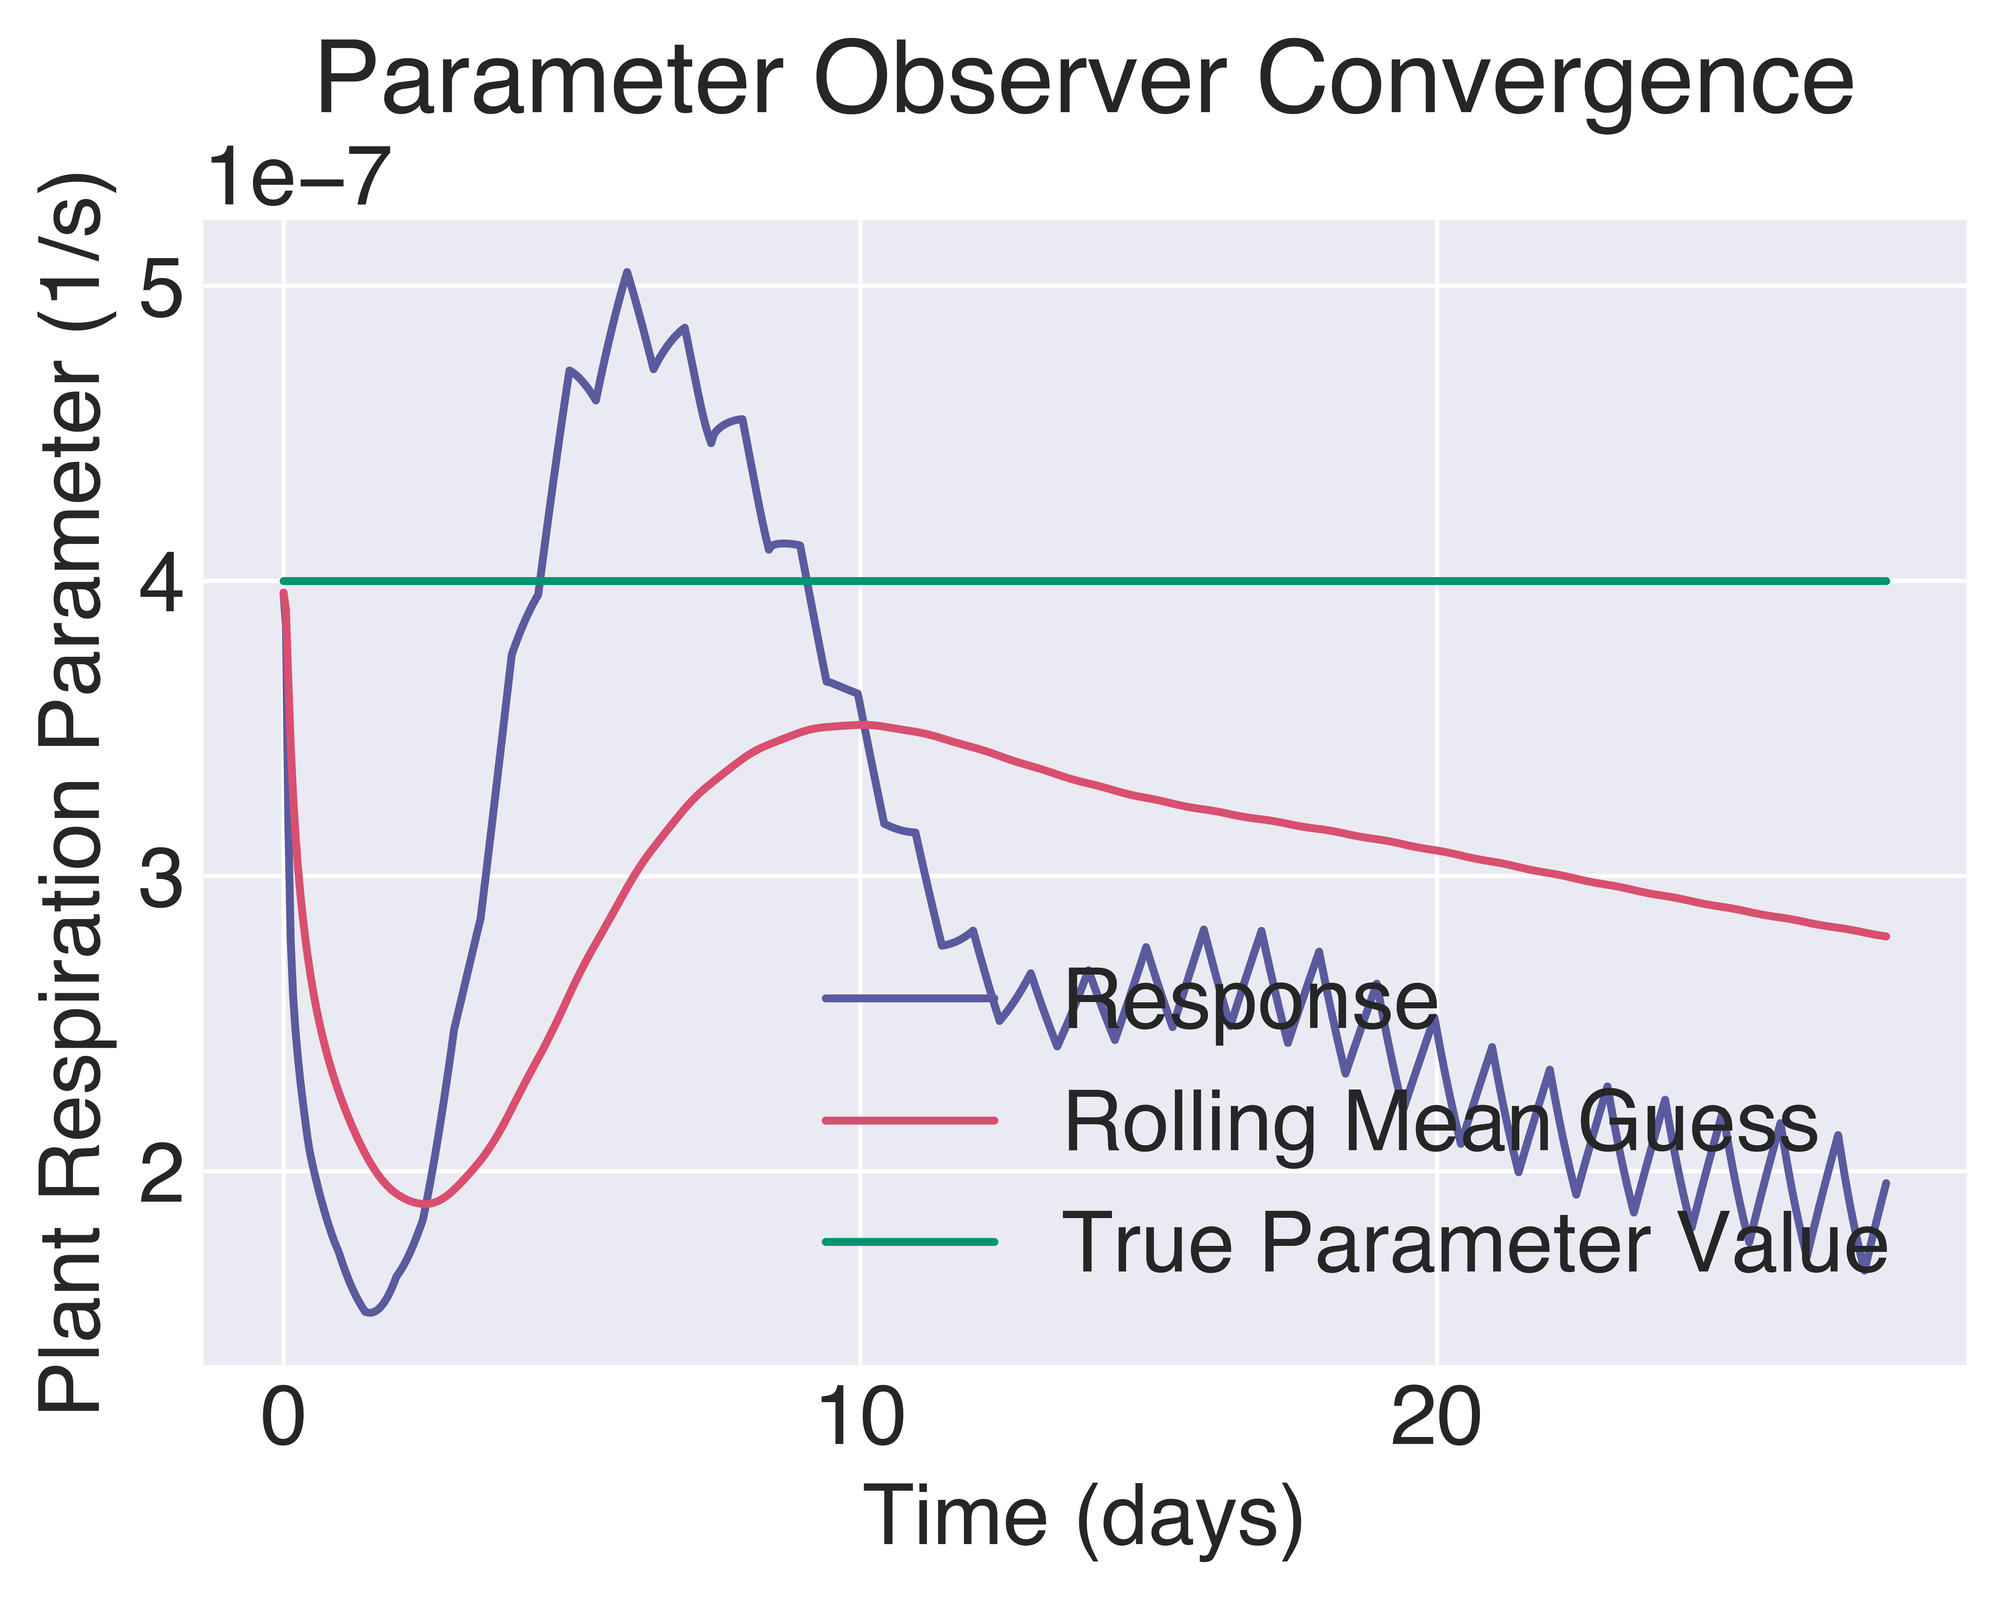
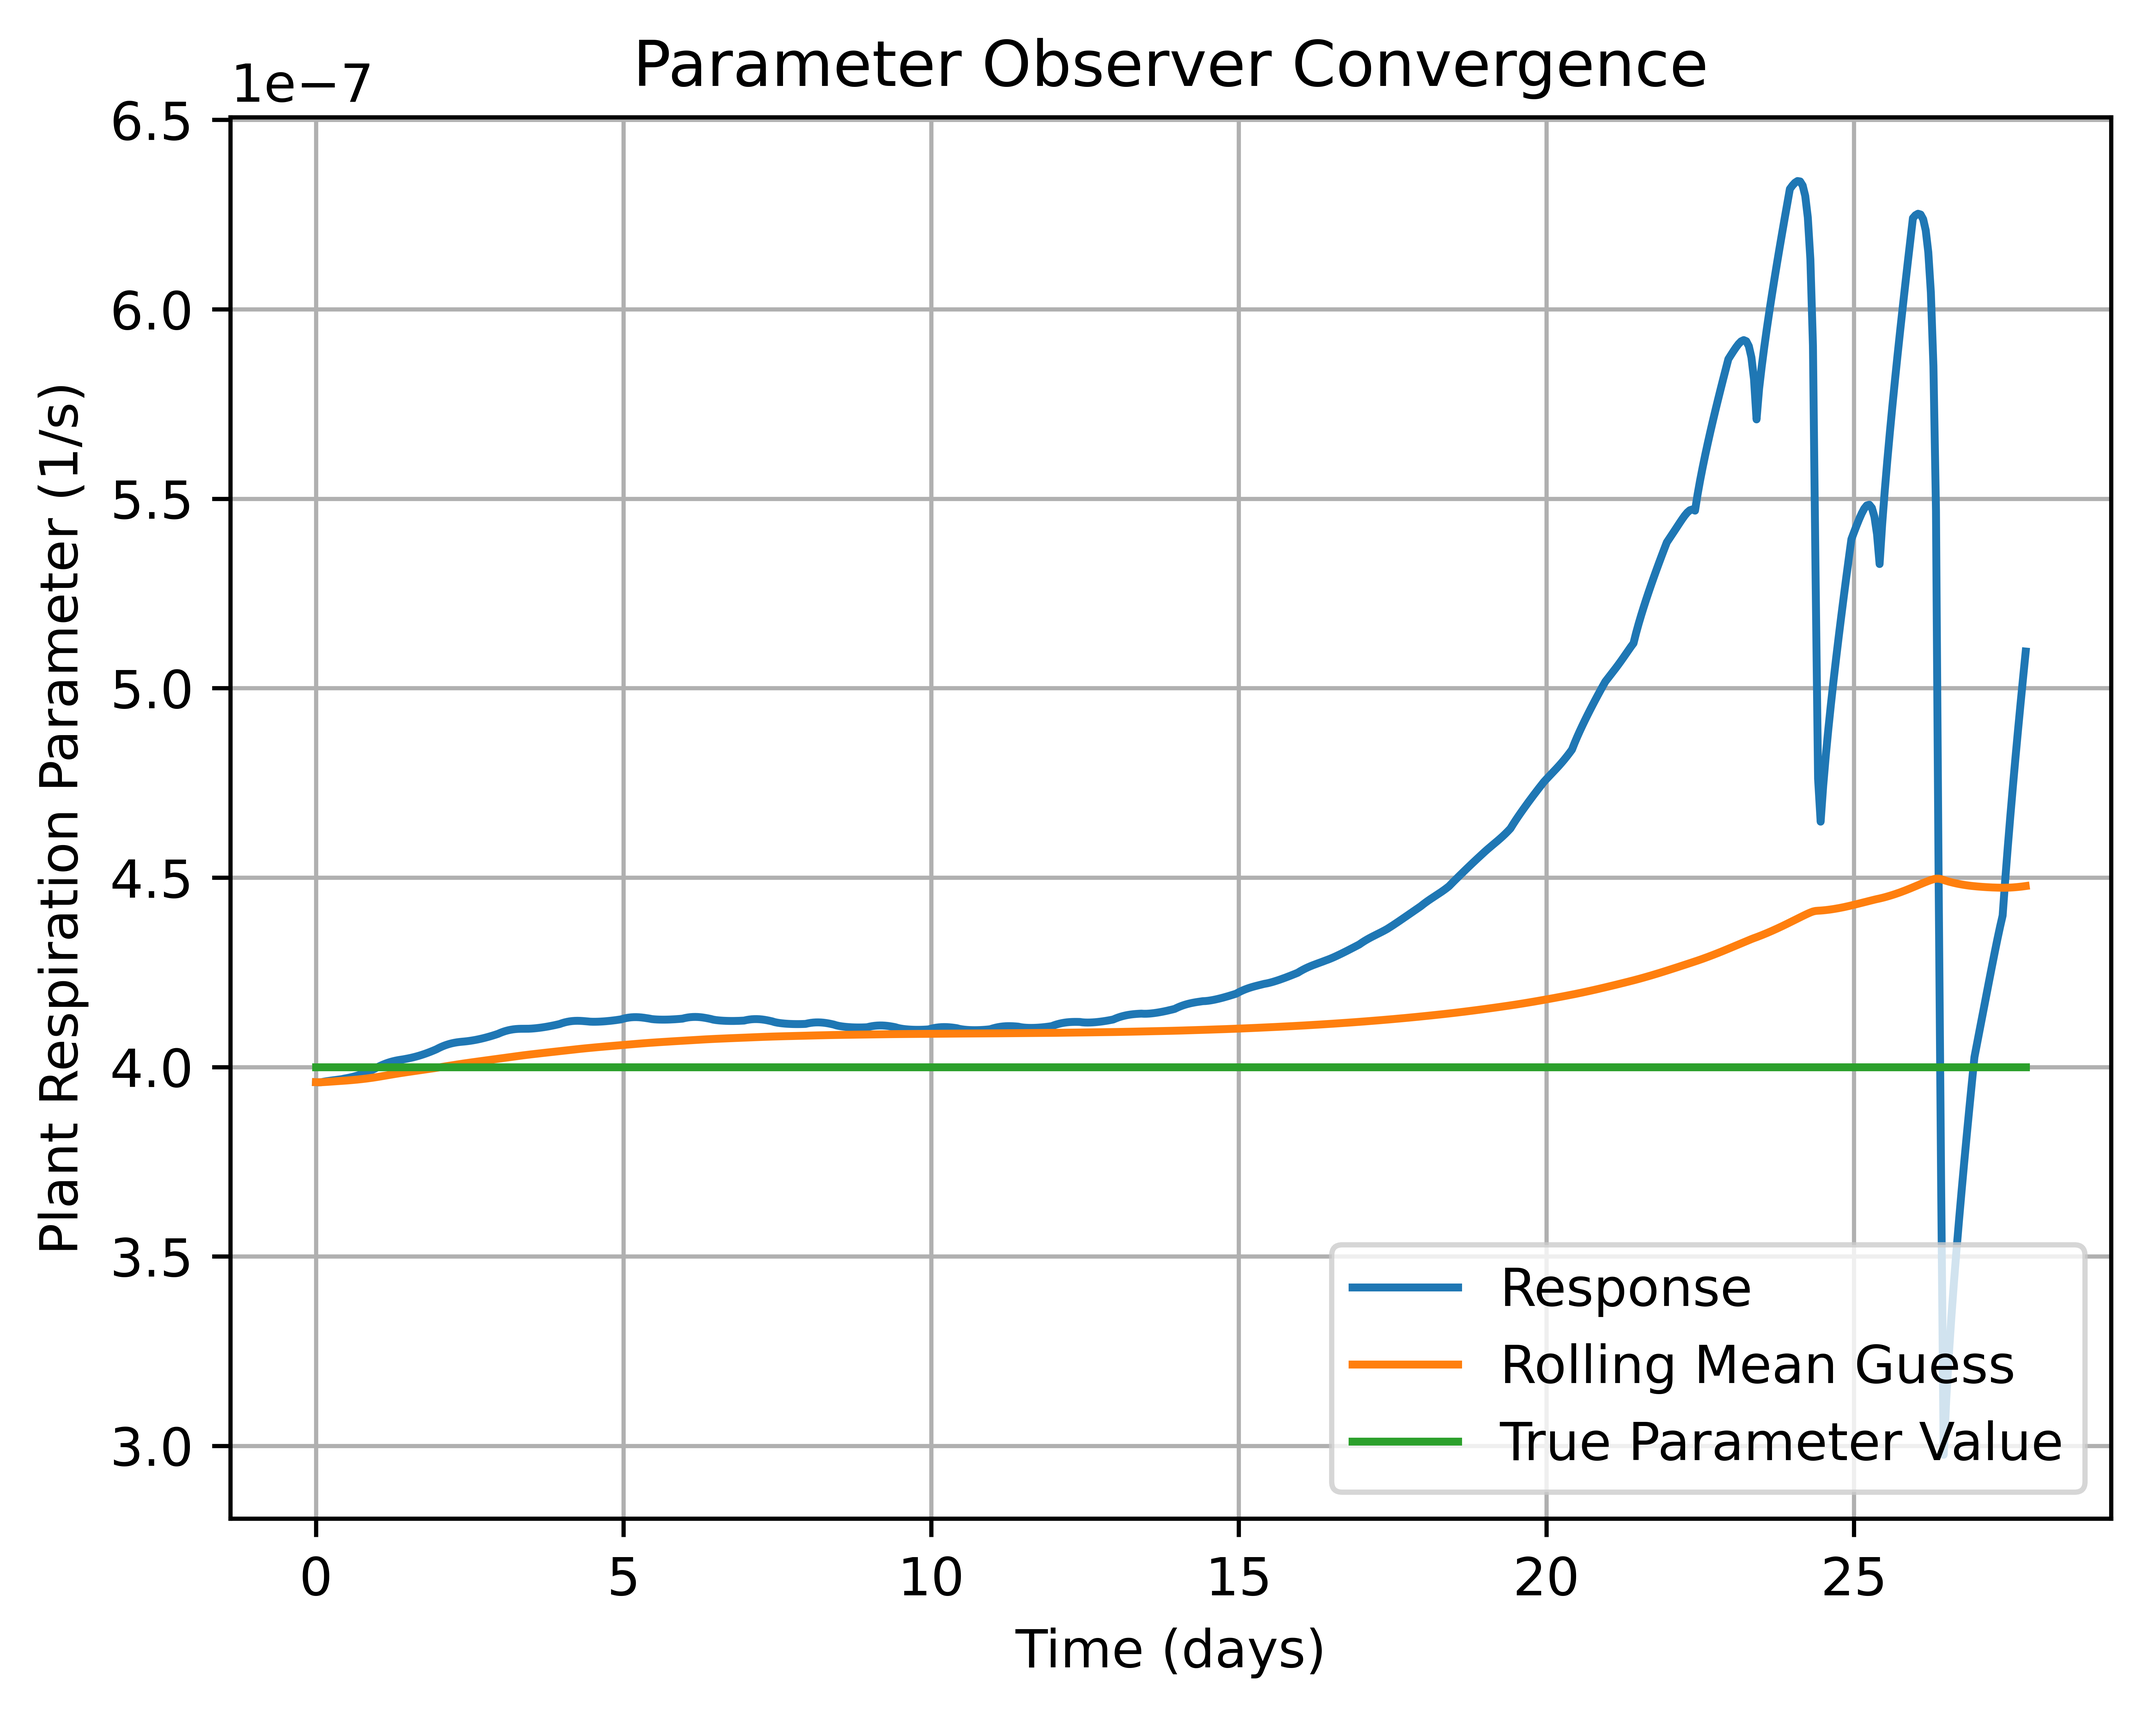
new measurement files for plant rgbd

diff --git a/nicolet_model_base.py b/nicolet_model_base.py
@@ -130,7 +130,7 @@ def run_model(f, h, x0, u, p, t_span, dt, title, file_id='Regular_Test'):
     plt.xlabel('Time (days)')
     plt.ylabel('Weight (kg m-2)')
     plt.legend()
-    plt.grid(True)
+    # plt.grid(True)
     plt.show()
     return None
 
@@ -672,14 +672,14 @@ if __name__ == "__main__":
     
     ## Initial Conditions for State / Input ##
     x0 = np.array([0.007, 0.0671])  # Initial condition (M_cv, M_cs)
-    u = np.array([200,23.0,550])  # Input (I [W/m2],T[C],C_co2[ppm])
+    u = np.array([275,23.0,550])  # Input (I [W/m2],T[C],C_co2[ppm])
     u *= np.array([2.1e-5,1,.0195/450]) # Conversion to Model Units
     
     ## Initialize Test Input Array ##
     u = u*np.ones((t_span[1]//dt,3)) # Expanding Input to Fill Full Trajectory
     u[:,0] *= np.array([(1 if i*3600 % 86400 > 36000 else 0.05) for i in range(t_span[1]//dt)]) # Input PAR - Step Function
-    u[:,1] += 2.0*np.cos(2*np.pi*(t_array-3600)/86400)  # Input Temp. - Sinusodial Daily Changes
-    u[:,2] += np.random.normal(0,1.5,t_span[1]//dt)*.22*u[:,2]  # Input Co2 - Gaussian Changes
+    # u[:,1] += 2.0*np.cos(2*np.pi*(t_array-3600)/86400)  # Input Temp. - Sinusodial Daily Changes
+    # u[:,2] += np.random.normal(0,1.5,t_span[1]//dt)*.22*u[:,2]  # Input Co2 - Gaussian Changes
     
     ### Run the NICOLET Model (Un-comment run_model for graphical representations)
     run_model(f, h, x0, u, p, t_span, dt, 'Base Case', file_id='k_IC_test')

diff --git a/nicolet_model_pure_observer.py b/nicolet_model_pure_observer.py
@@ -17,8 +17,8 @@ from scipy.fft import fft, fftfreq
 
 from nicolet_model_base import * 
 
-plt.style.use('https://github.com/dhaitz/matplotlib-stylesheets/raw/master/pacoty.mplstyle')
-plt.rcParams.update({'font.size': 16})
+# plt.style.use('https://github.com/dhaitz/matplotlib-stylesheets/raw/master/pacoty.mplstyle')
+# plt.rcParams.update({'font.size': 16})
 
 ####### Parameters for the Nicolet Model ##########
 
@@ -188,7 +188,7 @@ for i in tqdm(range(1,x_traj.shape[1])):
         
         # Initialize Actual Output from Model at this Time Step
         y = np.array([y_traj[:,i][0], y_traj[:,i][1]])
-        y[0] = y[1]/10
+        y[0] = y[1]/20
         
         # Guess Next State based on Prev. State + its Derivative
         p[9] = x_init[2] # Change Paramter Matrix with Current Guess

diff --git a/mass_measure.py b/mass_measure.py
@@ -24,6 +24,7 @@ with open(file_name, 'r') as file:
 new_trajs = []
 factors = [2.0,2.5,3.0,3.5,4.0,4.5,5.0,5.5]
 cutoffs = [2,5,8,11,16,22,26,30]
+factor = 0
 for i in range(len(traj_list)):
     cur_traj = np.array(traj_list[i],dtype=np.float64)
     for j in range(cur_traj.shape[1]):
@@ -38,7 +39,13 @@ for i in range(len(traj_list)):
     new_trajs.append(cur_traj)
 
 plt.figure(0)
-for i in range(len(new_trajs)):
-    plt.plot(new_trajs[i][0],new_trajs[i][1])
+# for i in range(len(traj_list)):
+i = 10
+plt.plot(np.array(new_trajs[i][0],dtype=np.float64),np.array(new_trajs[i][1],dtype=np.float64),label='M_fm')
+plt.title("Example Trajectory")
+plt.xlabel("Time (Days)")
+plt.ylabel("Fresh Biomass (kg m-2)")
+plt.legend()
+plt.grid(True)
 plt.show()
         

diff --git a/fm_to_dm.py b/fm_to_dm.py
@@ -10,9 +10,15 @@ import numpy as np
 import matplotlib.pyplot as plt
 
 y_traj = np.load('./dry_mass.npy')
-y_traj[1,:] /= 10
+y_traj[1,:] /= 20
 t_traj = np.load('./dry_mass_time.npy')
 
 plt.figure(0)
-plt.plot(t_traj/60/60/24,y_traj[0:2,:].T)
+plt.plot(t_traj/60/60/24,y_traj[0,:].T, label="Simulation M_dm")
+plt.plot(t_traj/60/60/24,y_traj[1,:].T, label="M_fm * DFW")
+plt.title('Fixed DFW Checking')
+plt.xlabel('Time (Days)')
+plt.ylabel('Fresh Biomass (in g)')
+plt.legend()
+plt.grid(True)
 plt.show()

diff --git a/change_filenames.py b/change_filenames.py
@@ -1,0 +1,10 @@
+import os
+from datetime import datetime as dt
+
+n = 20
+today = dt.today()
+print(today.strftime('%Y-%m-%d'))
+dir = "/Users/morganmayborne/Downloads/MSR/test_rgbd_frames/"
+
+for i in range(n):
+    os.rename(dir+today.strftime('%Y-%m-%d')+str(i)+".npy",dir+today.strftime('%Y-%m-%d')+"-"+str(i)+".npy")
